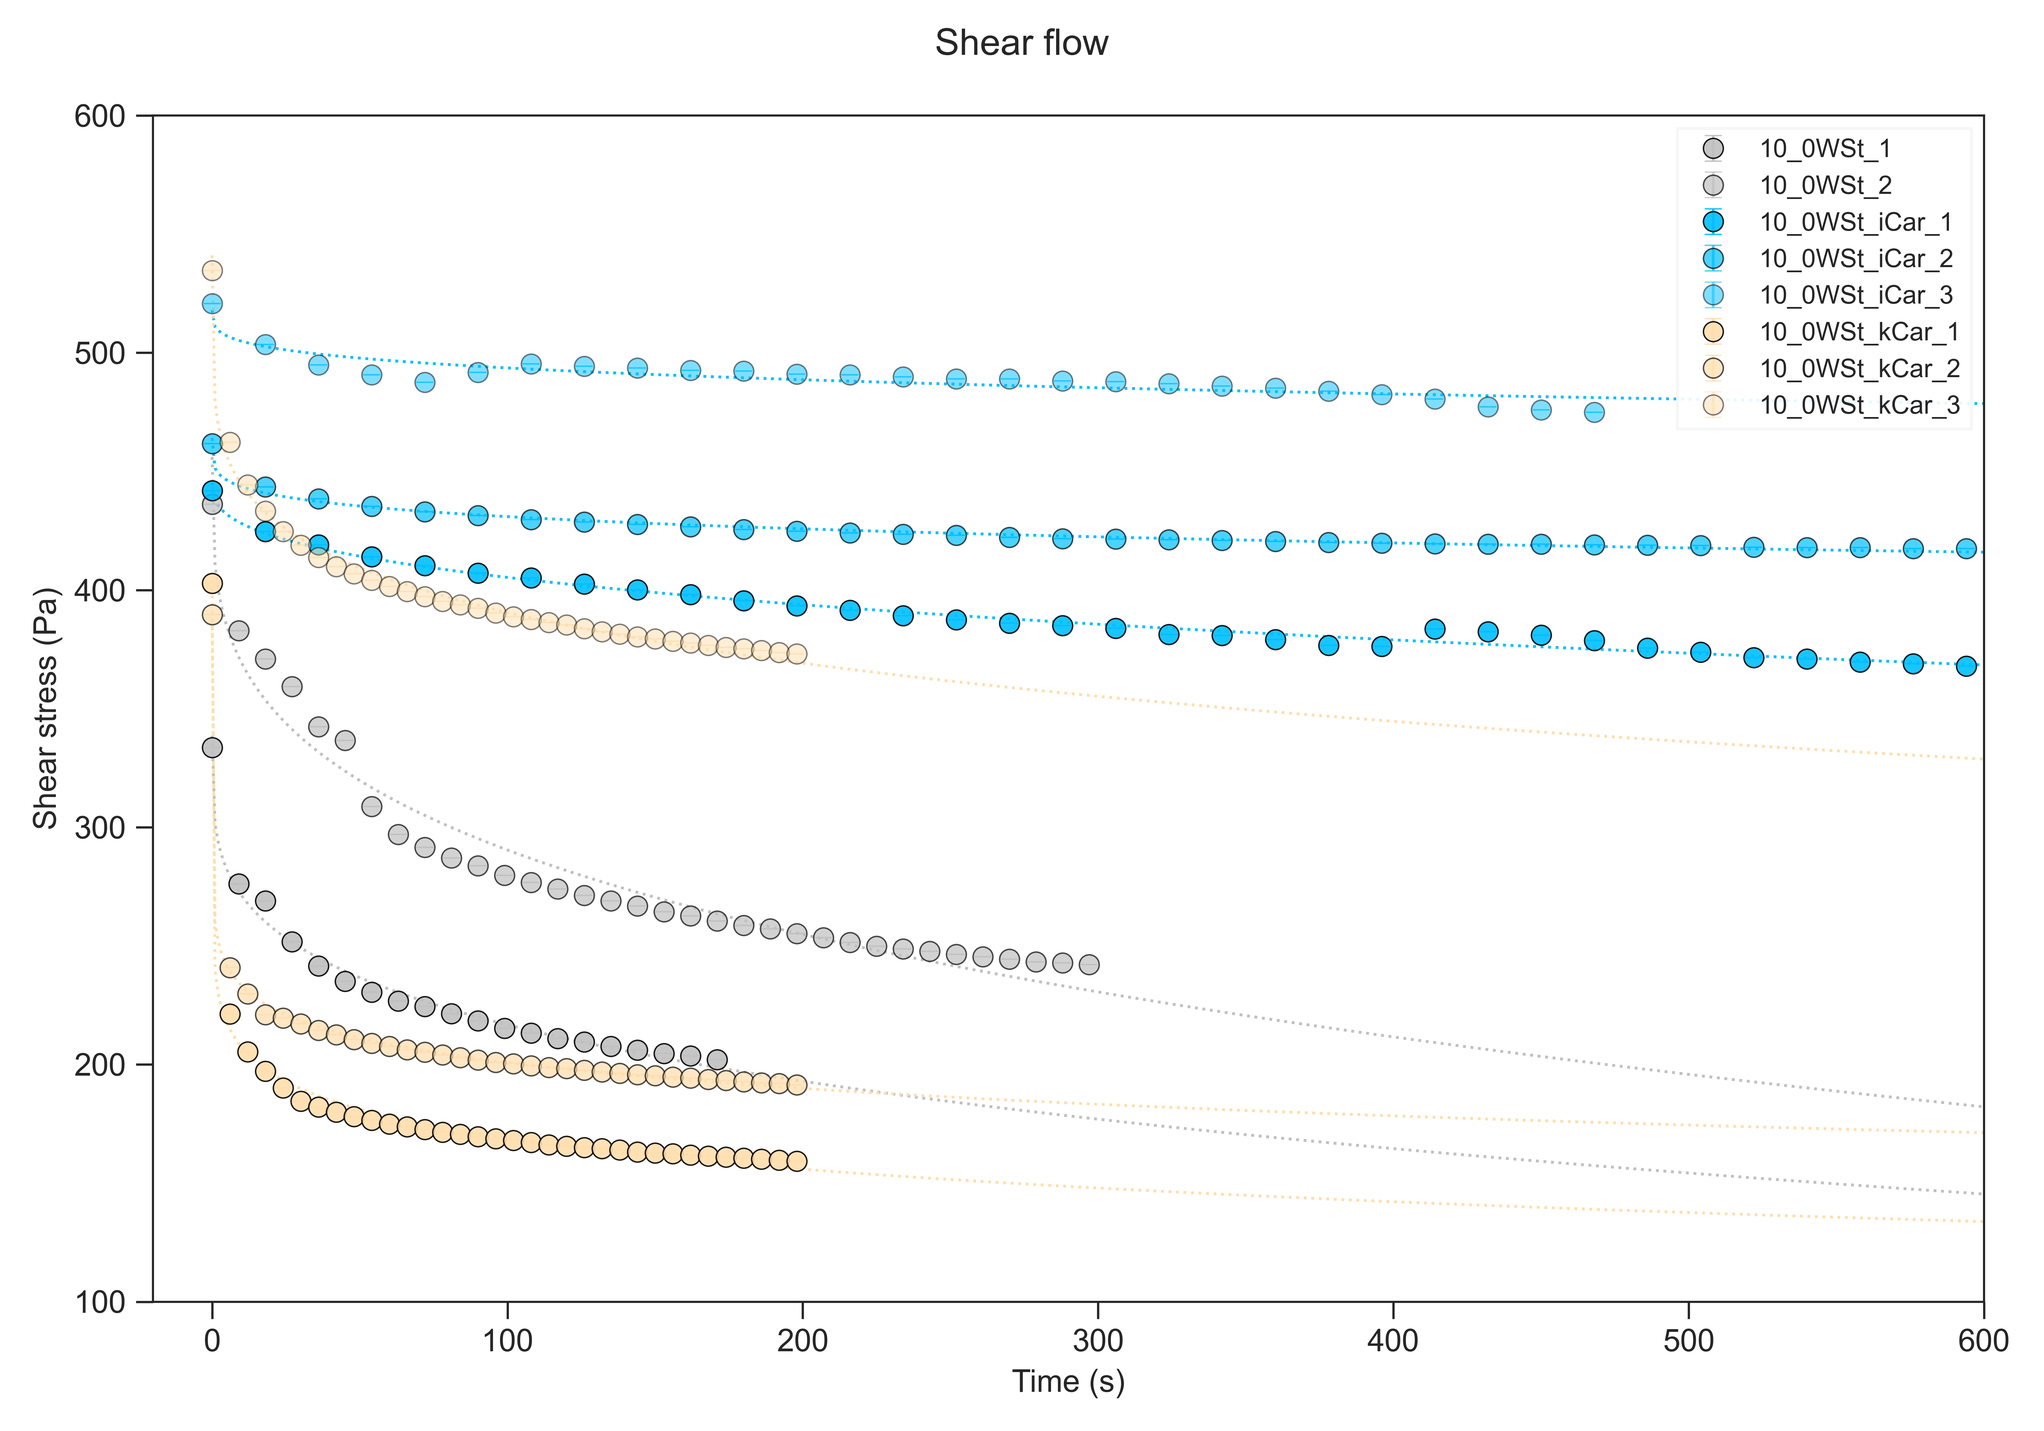
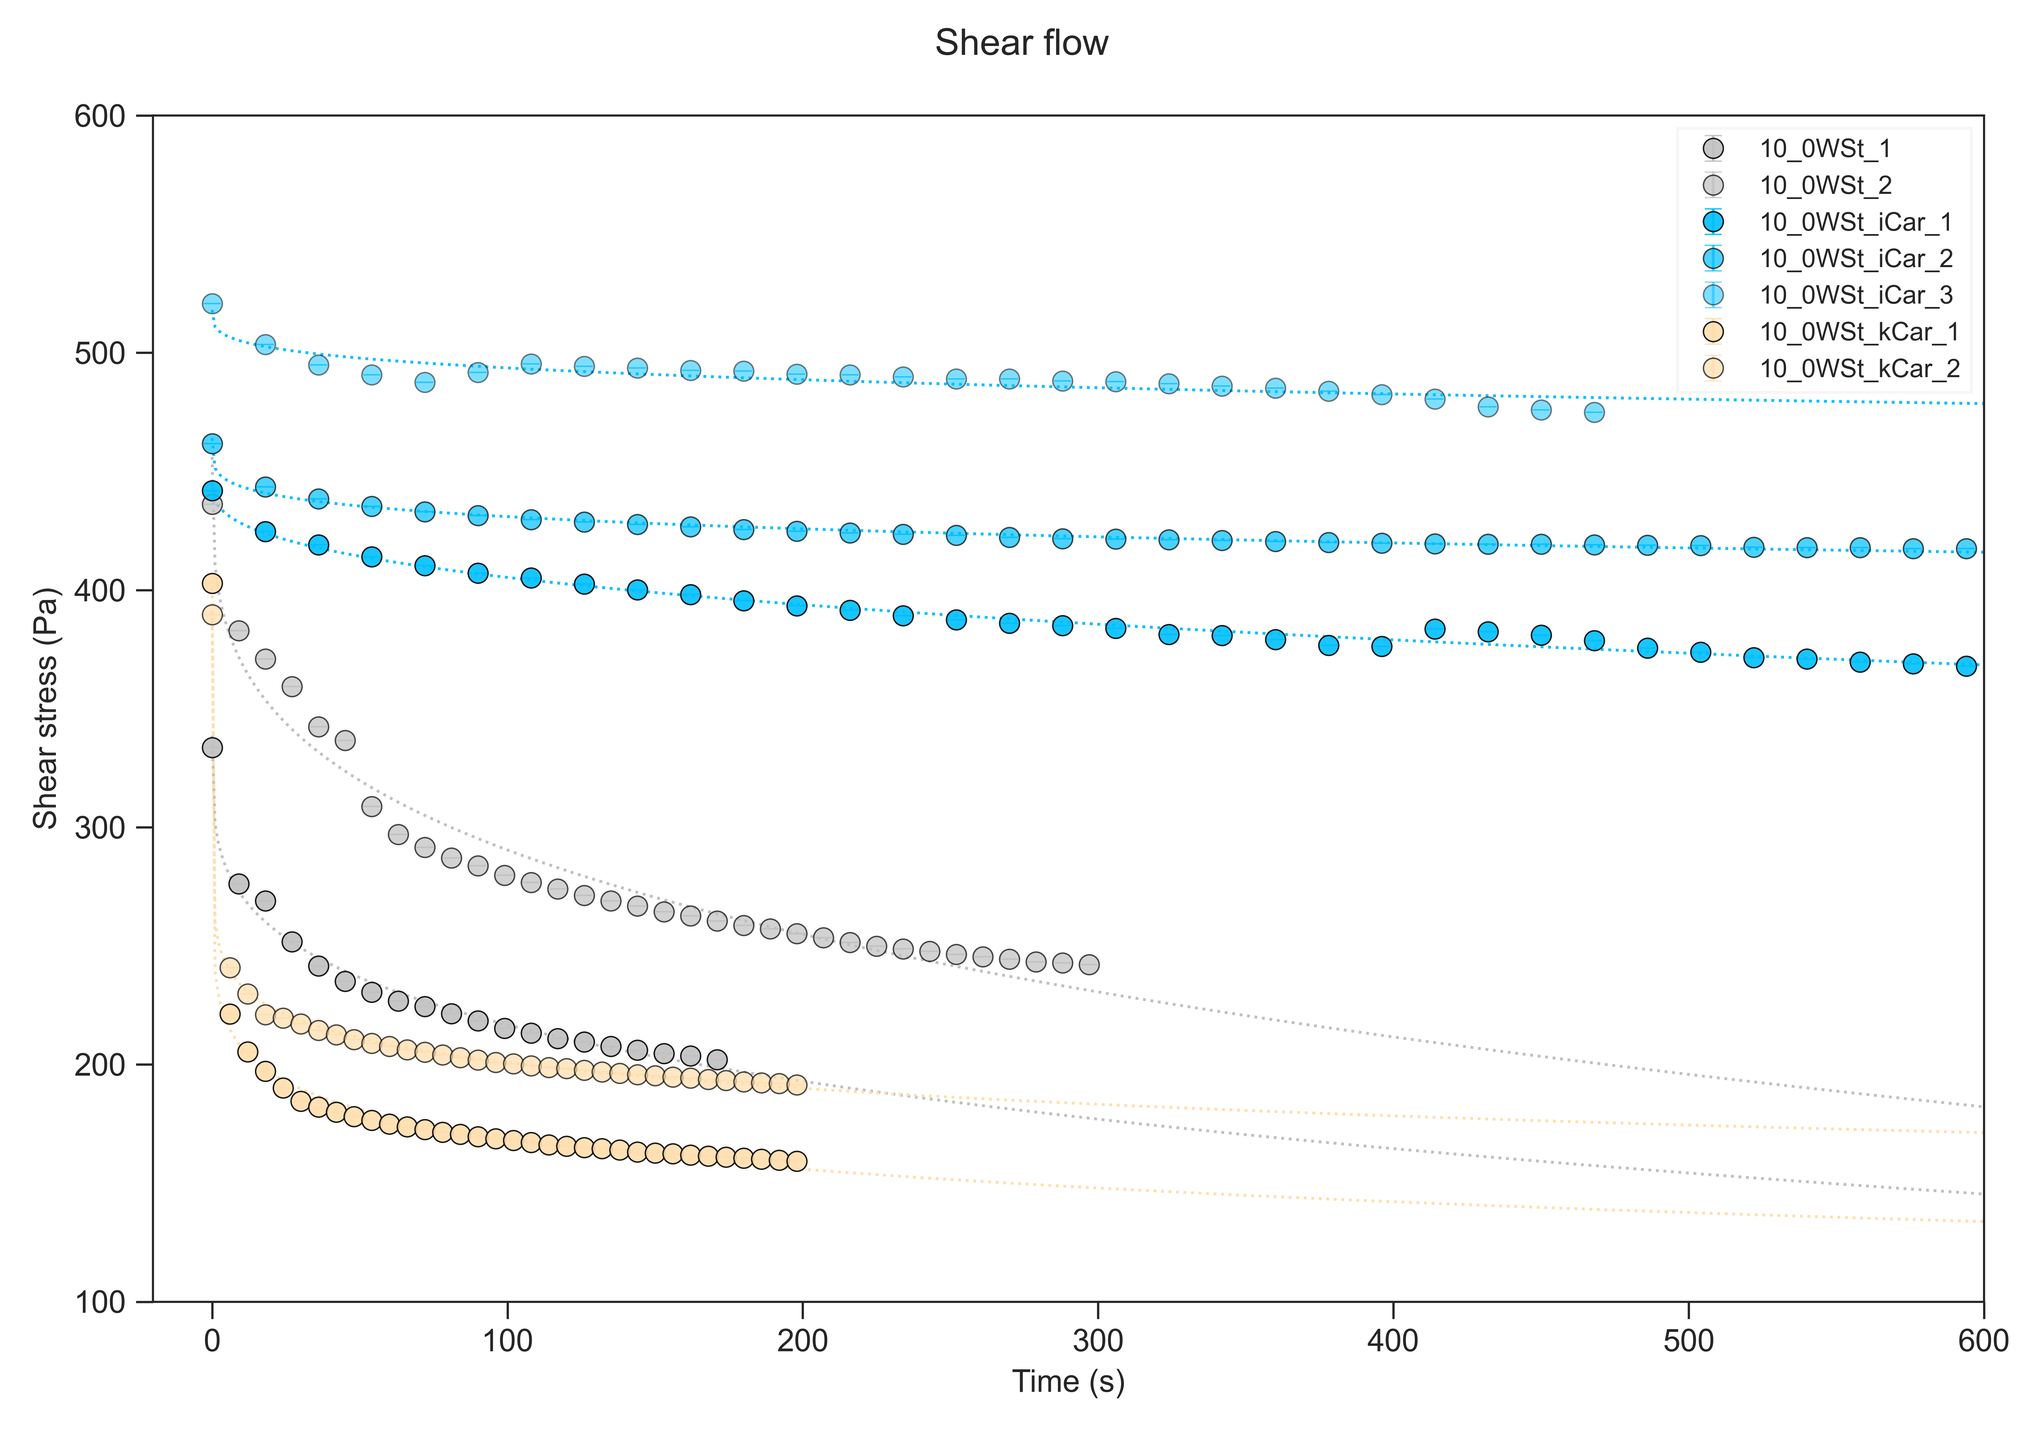
FreqSweeps done

diff --git a/custom plots/FreqSweeps.py b/custom plots/FreqSweeps.py
@@ -66,216 +66,208 @@ def getCteMean(values, tolerance=100):
     return mean, iStart, iEnd
 
 
-def getSamplesData(dataPath, nSt, nIc):
-    def columnsRead(dataframe):
-        time, shearRate, shearStress, viscosity = (
-            dataframe['t in s'].to_numpy(),
-            dataframe['ɣ̇ in 1/s'].to_numpy(),
-            dataframe['τ in Pa'].to_numpy(),
-            dataframe['η in mPas'].to_numpy())
+def getSamplesData(dataPath, n5st, n10St, nIc, nKc):
+    """
+    Reads multiple sample files and categorizes the data into 'cteRate' and 'stepsRate' dictionaries.
+    """
+    def getSegments(dataframe):
+        """
+        Extracts freq, shear rate, shear stress, and delta segments from the dataframe.
+        Returns tuples of constant and step segments.
+        """
+        freq = dataframe['f in Hz'].to_numpy()
+        elastic = dataframe["G' in Pa"].to_numpy()
+        loss = dataframe['G" in Pa'].to_numpy()
+        delta = dataframe['tan(δ) in -'].to_numpy()
 
-        seg3, seg4, seg5 = (dataframe.index[dataframe['SegIndex'] == '3|1'].to_list()[0],
-                            dataframe.index[dataframe['SegIndex'] == '4|1'].to_list()[0],
-                            dataframe.index[dataframe['SegIndex'] == '5|1'].to_list()[0])
+        # Identifying segments in the data
+        seg2, seg3 = (dataframe.index[dataframe['SegIndex'] == seg].to_list()[0] for seg in ['2|1', '3|1'])
 
-        tCte, tSteps = time[seg3:seg4], time[seg4:seg5]
-        shearRate_cte, shearRate_steps = shearRate[seg3:seg4], shearRate[seg4:seg5]
-        shearStress_cte, shearStress_steps = shearStress[seg3:seg4], shearStress[seg4:seg5]
-        viscosity_cte, viscosity_steps = viscosity[seg3:seg4], viscosity[seg4:seg5]
+        # Slice segments
+        segments = lambda arr: (arr[seg2:seg3])  # Returns (constant segment, step segment)
 
-        return ([tCte - tCte[0], tSteps - tCte[0]],
-                [shearRate_cte, shearRate_steps],
-                [shearStress_cte, shearStress_steps],
-                [viscosity_cte, viscosity_steps])
+        return {
+            'freq': segments(freq),
+            'storage': segments(elastic),
+            'loss': segments(loss),
+            'delta': segments(delta)
+        }
+    # Store data for each sample type
+    samples = {'5_st': [], '10_st': [], 'ic': [], 'kc': []}
 
-    dict_cteRate, dict_stepsRate = {}, {}  # Dicionário para armazenar resultados por caminho de arquivo
-    st_time, st_rateCte, st_rateSteps, st_stressCte, st_stressSteps, st_viscosityCte, st_viscositySteps = [], [], [], [], [], [], []
-    ic_time, ic_rateCte, ic_rateSteps, ic_stressCte, ic_stressSteps, ic_viscosityCte, ic_viscositySteps = [], [], [], [], [], [], []
-    kc_time, kc_rateCte, kc_rateSteps, kc_stressCte, kc_stressSteps, kc_viscosityCte, kc_viscositySteps = [], [], [], [], [], [], []
+    # Determine sample types for each path
+    sample_labels = ['5_st'] * n5st + ['10_st'] * n10St + ['ic'] * nIc + ['kc'] * nKc
 
-    for sample, path in enumerate(dataPath):
+    # Read data and categorize based on sample type
+    for sample_type, path in zip(sample_labels, dataPath):
         df = pd.read_excel(path)
+        segments = getSegments(df)
+        samples[sample_type].append(segments)
 
-        if sample < nSt:
-            st_time_i, st_rate_i, st_stress_i, st_viscosity_i = columnsRead(df)
+    # Initialize dictionaries to hold the results
+    dict_freqSweeps = {}
 
-            st_time.append(st_time_i[0])
+    # Populate dictionaries with consolidated sample data
+    for sample_type in samples:
+        dict_freqSweeps[f'{sample_type}_freq'] = [s['freq'] for s in samples[sample_type]]
+        dict_freqSweeps[f'{sample_type}_storage'] = [s['storage'] for s in samples[sample_type]]
+        dict_freqSweeps[f'{sample_type}_loss'] = [s['loss'] for s in samples[sample_type]]
+        dict_freqSweeps[f'{sample_type}_delta'] = [s['delta'] for s in samples[sample_type]]
 
-            st_rateCte.append(st_rate_i[0])
-            st_rateSteps.append(st_rate_i[1])
-
-            st_stressCte.append(st_stress_i[0])
-            st_stressSteps.append(st_stress_i[1])
-
-            st_viscosityCte.append(st_viscosity_i[0])
-            st_viscositySteps.append(st_viscosity_i[1])
-
-        elif sample < nSt + nIc:
-            ic_time_i, ic_rate_i, ic_stress_i, ic_viscosity_i = columnsRead(df)
-
-            ic_time.append(ic_time_i[0])
-
-            ic_rateCte.append(ic_rate_i[0])
-            ic_rateSteps.append(ic_rate_i[1])
-
-            ic_stressCte.append(ic_stress_i[0])
-            ic_stressSteps.append(ic_stress_i[1])
-
-            ic_viscosityCte.append(ic_viscosity_i[0])
-            ic_viscositySteps.append(ic_viscosity_i[1])
-
-        else:
-            kc_time_i, kc_rate_i, kc_stress_i, kc_viscosity_i = columnsRead(df)
-
-            kc_time.append(kc_time_i[0])
-
-            kc_rateCte.append(kc_rate_i[0])
-            kc_rateSteps.append(kc_rate_i[1])
-
-            kc_stressCte.append(kc_stress_i[0])
-            kc_stressSteps.append(kc_stress_i[1])
-
-            kc_viscosityCte.append(kc_viscosity_i[0])
-            kc_viscositySteps.append(kc_viscosity_i[1])
-
-    # Cte shear rate data
-    #   Pure starch
-    (dict_cteRate[f'st_time'],
-     dict_cteRate[f'st_rateCte'],
-     dict_cteRate[f'st_stressCte'],
-     dict_cteRate[f'st_viscosityCte']) = st_time, st_rateCte, st_stressCte, st_viscosityCte
-
-    (dict_stepsRate[f'st_rateSteps'],
-     dict_stepsRate[f'st_stressSteps'],
-     dict_stepsRate[f'st_viscositySteps']) = st_rateSteps, st_stressSteps, st_viscositySteps
-
-    #   Starch + iCar
-    (dict_cteRate[f'ic_time'],
-     dict_cteRate[f'ic_rateCte'],
-     dict_cteRate[f'ic_stressCte'],
-     dict_cteRate[f'ic_viscosityCte']) = ic_time, ic_rateCte, ic_stressCte, ic_viscosityCte
-
-    (dict_stepsRate[f'ic_rateSteps'],
-     dict_stepsRate[f'ic_stressSteps'],
-     dict_stepsRate[f'ic_viscositySteps']) = ic_rateSteps, ic_stressSteps, ic_viscositySteps
-
-    #   Starch + kCar
-    (dict_cteRate[f'kc_time'],
-     dict_cteRate[f'kc_rateCte'],
-     dict_cteRate[f'kc_stressCte'],
-     dict_cteRate[f'kc_viscosityCte']) = kc_time, kc_rateCte, kc_stressCte, kc_viscosityCte
-
-    (dict_stepsRate[f'kc_rateSteps'],
-     dict_stepsRate[f'kc_stressSteps'],
-     dict_stepsRate[f'kc_viscositySteps']) = kc_rateSteps, kc_stressSteps, kc_viscositySteps
-
-    return dict_cteRate, dict_stepsRate
+    return dict_freqSweeps
 
 
-def plotFreqSweeps(nSamples,
+def plotFreqSweeps(nSamples, sampleName,
                    ax, x, y,
-                   axTitle, yLabel, yLim,
-                   curveColor, markerStyle,
-                   sampleName,
-                   logScale=False):
+                   axTitle, yLabel, yLim, xLabel, xLim,
+                   curveColor, markerStyle, markerFColor, markerEColor, markerEWidth=0.5,
+                   lineStyle='-', individualData=False, logScale=False):
     def legendLabel():
         """Applies consistent styling to legends in plots."""
         legend = ax.legend(fancybox=False, frameon=True, framealpha=0.9, fontsize=9)
         legend.get_frame().set_facecolor('w')
         legend.get_frame().set_edgecolor('whitesmoke')
 
-    def configPlot(idSample):
+    def configPlot(idSample=0):
         ax.set_title(axTitle, size=9, color='crimson')
         ax.spines[['top', 'bottom', 'left', 'right']].set_linewidth(0.75)
 
-        ax.set_xlabel('Time (s)')
+        ax.set_xlabel(f'{xLabel}')
         ax.set_xscale('log' if logScale else 'linear')
-        ax.set_xlim([-20, +600])
+        ax.set_xlim(xLim)
 
         ax.set_ylabel(f'{yLabel}')
         ax.set_yscale('log' if logScale else 'linear')
         ax.set_ylim(yLim)
 
         ax.errorbar(
-            x[curve][::3], y[curve][::3], yerr=0, color=curveColor, alpha=(0.9 - curve*0.2),
-            fmt=markerStyle, markersize=7, mec='k', mew=0.5,
-            capsize=3, lw=1, linestyle='',  # ecolor='k'
+            x[curve][::3] if individualData else np.mean(x, axis=0)[:-1],
+            y[curve][::3] if individualData else np.mean(y, axis=0)[:-1],
+            yerr=0 if individualData else np.std(y, axis=0)[:-1],
+            color=curveColor, alpha=(0.9 - curve*0.2) if individualData else 1.0,
+            fmt=markerStyle, markersize=7, mfc=markerFColor, mec=markerEColor, mew=markerEWidth,
+            capsize=3, lw=1, linestyle=lineStyle,  # ecolor='k'
             label=f'{sampleName}_{idSample + 1}', zorder=3)
 
         legendLabel()
 
-    for curve in range(nSamples):
-        configPlot(idSample=curve)
+    if individualData:
+        for curve in range(nSamples):
+            configPlot(idSample=curve)
+    else:
+        configPlot()
 
 
 def main(dataPath):
     fonts('C:/Users/petrus.kirsten/AppData/Local/Microsoft/Windows/Fonts/')
     # samplesQuantities = list(samplesValues.keys())
 
-    fileName = '10pct_0WSt_and_Car-Thixotropy'
+    fileName = '10pct_0WSt_and_Car-FrequencySweeps'
     dirSave = Path(*Path(filePath[0]).parts[:Path(filePath[0]).parts.index('data') + 1])
 
     plt.style.use('seaborn-v0_8-ticks')
-    fig, axStress = plt.subplots(figsize=(10, 7), facecolor='w', ncols=1)
-    # axVisc = axStress.twinx()
-    fig.suptitle(f'Shear flow')
+    fig, ax = plt.subplots(figsize=(10, 7), facecolor='w', ncols=1)
+    # axVisc = ax.twinx()
+    fig.suptitle(f'Frequency sweeps')
 
-    st_nSamples, ic_nSamples, kc_nSamples = 2, 3, 3
-    constantShear, _ = getSamplesData(dataPath, st_nSamples, ic_nSamples)
+    yTitle, yLimits = f"Storage (G')" + f' and loss (G") moduli' + f' (Pa)', (2, 1*10**5)
+    xTitle, xLimits = f'Frequency (Hz)', (0.05, 200)
+    st5_color, st10_color, ic_color, kc_color = 'wheat', 'darksalmon', 'hotpink', 'mediumturquoise'
+    plotEachSample = False
 
-    (x_st, s_st, v_st,
-     x_ic, s_ic, v_ic,
-     x_kc, s_kc, v_kc) = (
-        constantShear['st_time'],
-        constantShear['st_stressCte'],
-        constantShear['st_viscosityCte'],
+    st5_nSamples, st10_nSamples, ic_nSamples, kc_nSamples = 1, 2, 3, 2
+    data = getSamplesData(dataPath, st5_nSamples, st10_nSamples, ic_nSamples, kc_nSamples)
+
+    (x_5st, gP_5st, gD_5st,
+     x_10st, gP_10st, gD_10st,
+     x_ic, gP_ic, gD_ic,
+     x_kc, gP_kc, gD_kc) = (
+        data['5_st_freq'],
+        data['5_st_storage'],
+        data['5_st_loss'],
         #
-        constantShear['ic_time'],
-        constantShear['ic_stressCte'],
-        constantShear['ic_viscosityCte'],
+        data['10_st_freq'],
+        data['10_st_storage'],
+        data['10_st_loss'],
         #
-        constantShear['kc_time'],
-        constantShear['kc_stressCte'],
-        constantShear['kc_viscosityCte'])
+        data['ic_freq'],
+        data['ic_storage'],
+        data['ic_loss'],
+        #
+        data['kc_freq'],
+        data['kc_storage'],
+        data['kc_loss'])
 
-    table = []
+    plotFreqSweeps(
+        nSamples=st5_nSamples,
+        ax=ax, x=x_5st, y=gP_5st,
+        axTitle='', yLabel=yTitle, yLim=yLimits, xLabel=xTitle, xLim=xLimits,
+        curveColor=st5_color, markerStyle='o', markerFColor=st5_color, markerEColor='k',
+        sampleName=f'5_0WSt', individualData=plotEachSample, logScale=True)
+    plotFreqSweeps(
+        nSamples=st5_nSamples,
+        ax=ax, x=x_5st, y=gD_5st,
+        axTitle='', yLabel=yTitle, yLim=yLimits, xLabel=xTitle, xLim=xLimits,
+        curveColor=st5_color, markerStyle='o', markerFColor='w',
+        markerEColor=st5_color, markerEWidth=1.5, lineStyle='--',
+        sampleName=f'', individualData=plotEachSample, logScale=True)
 
-    table = plotFreqSweeps(
-        listRows=table, nSamples=st_nSamples,
-        ax=axStress, x=x_st, y=s_st,
-        axTitle='', yLabel='Shear stress (Pa)', yLim=(100, 600),
-        curveColor='silver', markerStyle='o',
-        sampleName=f'10_0WSt')
+    plotFreqSweeps(
+        nSamples=st10_nSamples,
+        ax=ax, x=x_10st, y=gP_10st,
+        axTitle='', yLabel=yTitle, yLim=yLimits, xLabel=xTitle, xLim=xLimits,
+        curveColor=st10_color, markerStyle='o', markerFColor=st10_color, markerEColor='k',
+        sampleName=f'10_0WSt', individualData=plotEachSample, logScale=True)
+    plotFreqSweeps(
+        nSamples=st10_nSamples,
+        ax=ax, x=x_10st, y=gD_10st,
+        axTitle='', yLabel=yTitle, yLim=yLimits, xLabel=xTitle, xLim=xLimits,
+        curveColor=st10_color, markerStyle='o', markerFColor='w',
+        markerEColor=st10_color, markerEWidth=1.5, lineStyle='--',
+        sampleName=f'', individualData=plotEachSample, logScale=True)
 
-    table = plotFreqSweeps(
-        listRows=table, nSamples=ic_nSamples,
-        ax=axStress, x=x_ic, y=s_ic,
-        axTitle='', yLabel='Shear stress (Pa)', yLim=(100, 600),
-        curveColor='deepskyblue', markerStyle='o',
-        sampleName=f'10_0WSt_iCar')
+    plotFreqSweeps(
+        nSamples=ic_nSamples,
+        ax=ax, x=x_ic, y=gP_ic,
+        axTitle='', yLabel=yTitle, yLim=yLimits, xLabel=xTitle, xLim=xLimits,
+        curveColor=ic_color, markerStyle='o', markerFColor=ic_color, markerEColor='k',
+        sampleName=f'10_0WSt_iCar', individualData=plotEachSample, logScale=True)
+    plotFreqSweeps(
+        nSamples=ic_nSamples,
+        ax=ax, x=x_ic, y=gD_ic,
+        axTitle='', yLabel=yTitle, yLim=yLimits, xLabel=xTitle, xLim=xLimits,
+        curveColor=ic_color, markerStyle='o', markerFColor='w',
+        markerEColor=ic_color, markerEWidth=1.5, lineStyle='--',
+        sampleName=f'', individualData=plotEachSample, logScale=True)
 
-    table = plotFreqSweeps(
-        listRows=table, nSamples=kc_nSamples,
-        ax=axStress, x=x_kc, y=s_kc,
-        axTitle='', yLabel='Shear stress (Pa)', yLim=(100, 600),
-        curveColor='navajowhite', markerStyle='o',
-        sampleName=f'10_0WSt_kCar')
+    plotFreqSweeps(
+        nSamples=kc_nSamples,
+        ax=ax, x=x_kc, y=gP_kc,
+        axTitle='', yLabel=yTitle, yLim=yLimits, xLabel=xTitle, xLim=xLimits,
+        curveColor=kc_color, markerStyle='o', markerFColor=kc_color, markerEColor='k',
+        sampleName=f'10_0WSt_kCar', individualData=plotEachSample, logScale=True)
+    plotFreqSweeps(
+        nSamples=kc_nSamples,
+        ax=ax, x=x_kc, y=gD_kc,
+        axTitle='', yLabel=yTitle, yLim=yLimits, xLabel=xTitle, xLim=xLimits,
+        curveColor=kc_color, markerStyle='o', markerFColor='w',
+        markerEColor=kc_color, markerEWidth=1.5, lineStyle='--',
+        sampleName=f'', individualData=plotEachSample, logScale=True)
 
     # plt.subplots_adjust(wspace=0.175, top=0.890, bottom=0.14, left=0.05, right=0.95)
     plt.tight_layout()
     plt.show()
     fig.savefig(f'{dirSave}' + f'\\{fileName}' + '.png', facecolor='w', dpi=600)
 
-    fitParams = pd.DataFrame(table)
-    fitParams.to_excel(f'{dirSave}' + f'\\{fileName}' + '.xlsx', index=False)
-
-    print(f'\n\n· Chart and table with fitted parameters saved at\n{dirSave}.')
+    print(f'\n\n· Chart saved at\n{dirSave}.')
 
 
 if __name__ == '__main__':
     # folderPath = "C:/Users/petrus.kirsten/PycharmProjects/RheometerPlots/data"
     folderPath = "C:/Users/Petrus Kirsten/Documents/GitHub/RheometerPlots/data"
     filePath = [
+        folderPath + "/031024/5_0WSt/5_0WSt-FreqSweep.xlsx",
+        #
         folderPath + "/031024/10_0WSt/10_0WSt-viscRec_1.xlsx",
         folderPath + "/031024/10_0WSt/10_0WSt-viscRec_2.xlsx",
         #
@@ -284,7 +276,7 @@ if __name__ == '__main__':
         folderPath + "/031024/10_0WSt_iCar/10_0WSt_iCar-viscoRecoveryandFlow_3.xlsx",
         folderPath + "/031024/10_0WSt_iCar/10_0WSt_iCar-viscoRecoveryandFlow_4.xlsx",
         #
-        folderPath + "/091024/10_0WSt_kCar/10_0WSt_kCar-viscoelasticRecovery-Flow_2a.xlsx",
+        # folderPath + "/091024/10_0WSt_kCar/10_0WSt_kCar-viscoelasticRecovery-Flow_2a.xlsx",
         folderPath + "/091024/10_0WSt_kCar/10_0WSt_kCar-viscoelasticRecovery-Flow_3a.xlsx",
         folderPath + "/091024/10_0WSt_kCar/10_0WSt_kCar-viscoelasticRecovery-Flow_4a.xlsx",
     ]

diff --git a/custom plots/ShearFlow.py b/custom plots/ShearFlow.py
@@ -215,7 +215,7 @@ def main(dataPath):
     # axVisc = axStress.twinx()
     fig.suptitle(f'Shear flow')
 
-    st_nSamples, ic_nSamples, kc_nSamples = 2, 3, 3
+    st_nSamples, ic_nSamples, kc_nSamples = 2, 3, 2
     constantShear, _ = getSamplesData(dataPath, st_nSamples, ic_nSamples)
 
     (x_st, s_st, v_st,
@@ -281,7 +281,7 @@ if __name__ == '__main__':
         #
         folderPath + "/091024/10_0WSt_kCar/10_0WSt_kCar-viscoelasticRecovery-Flow_2a.xlsx",
         folderPath + "/091024/10_0WSt_kCar/10_0WSt_kCar-viscoelasticRecovery-Flow_3a.xlsx",
-        folderPath + "/091024/10_0WSt_kCar/10_0WSt_kCar-viscoelasticRecovery-Flow_4a.xlsx",
+        # folderPath + "/091024/10_0WSt_kCar/10_0WSt_kCar-viscoelasticRecovery-Flow_4a.xlsx",
     ]
 
     main(dataPath=filePath)
